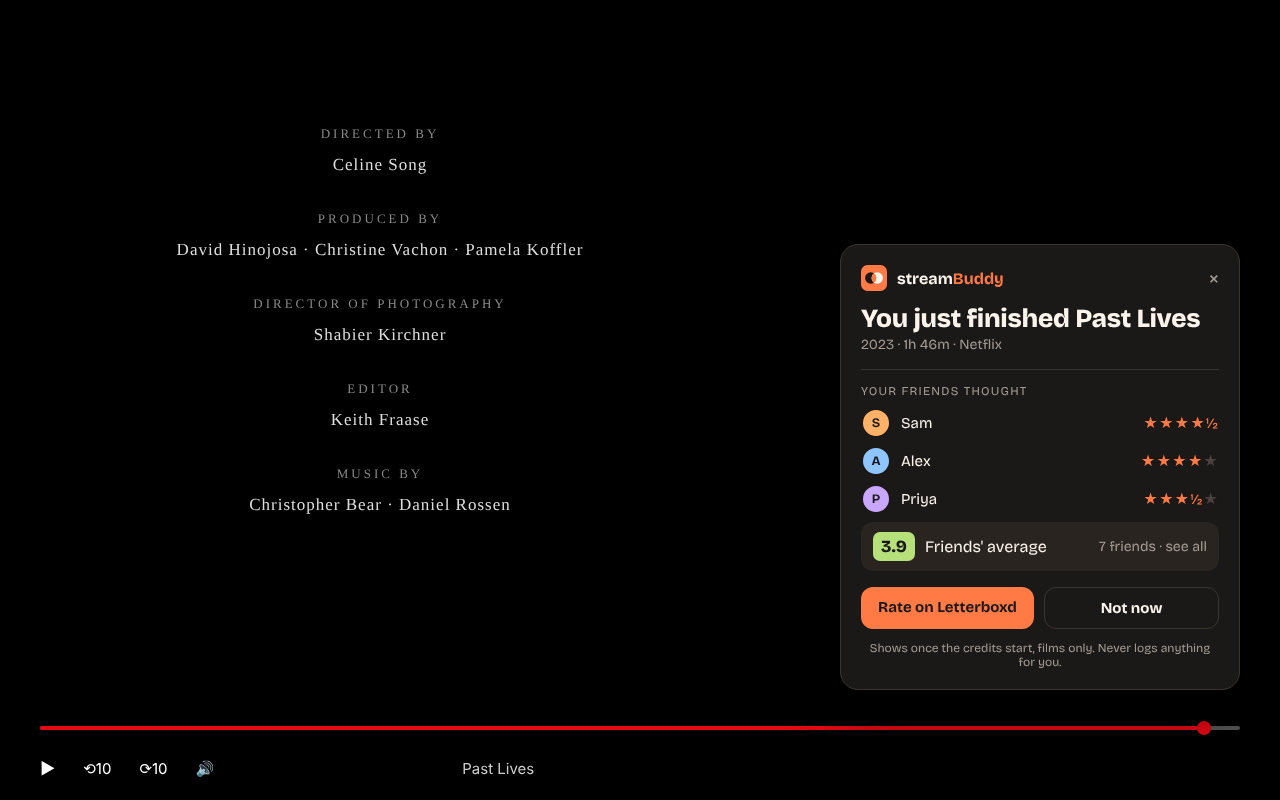
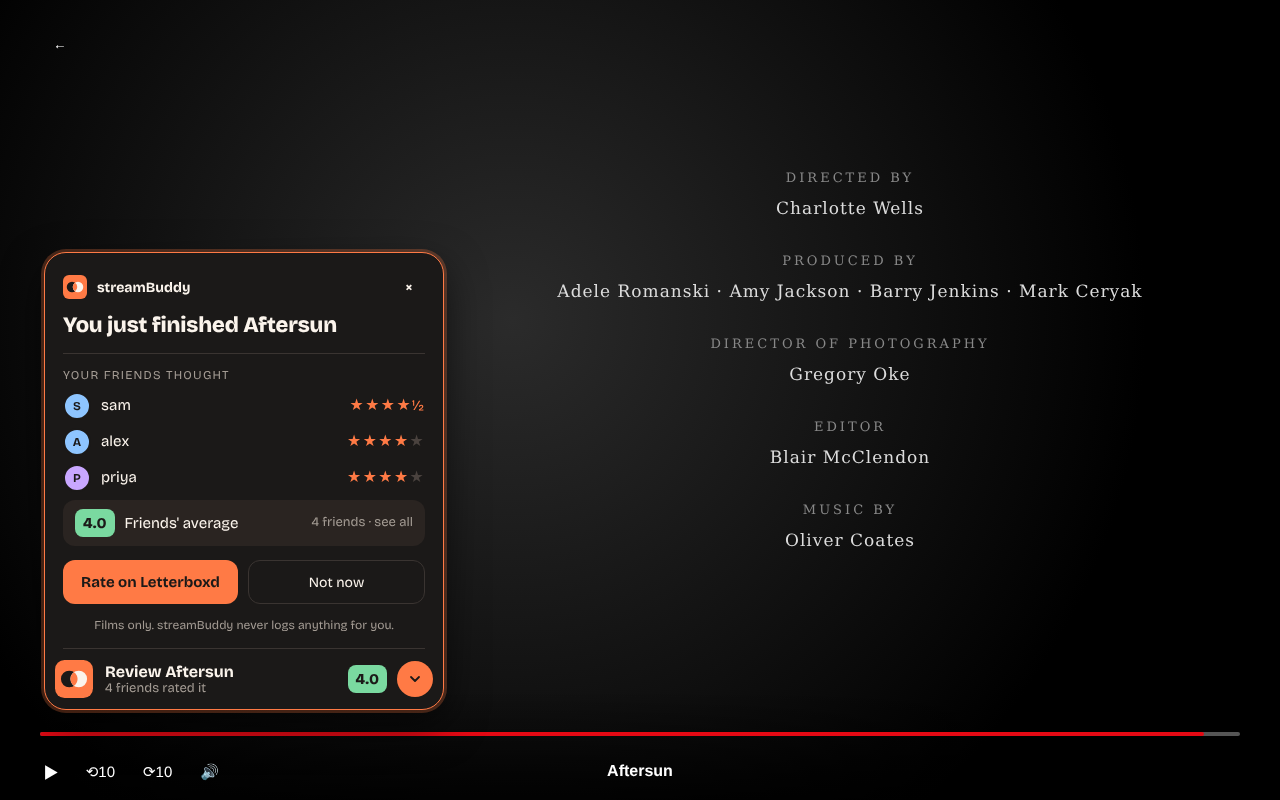
Bump to 1.0.2 and retake the review screenshot from the shipped pill
Claude-Session: https://claude.ai/code/session_01Es7cEYXK7Sj7KBMicDkbAQ

diff --git a/store/LISTING.md b/store/LISTING.md
@@ -23,7 +23,7 @@ Paste these into the Developer Dashboard. Character limits are noted where the s
 > • Friends' average rating on matched films, and who rated them
 > • Your own stars on films you've logged, with watchlisted films marked
 > • Add to your Letterboxd watchlist from a title page
-> • A review card as the credits roll, with what your friends thought and a one-click Rate on Letterboxd
+> • A review pill as the credits roll: your friends' ratings and a one-click Rate on Letterboxd
 >
 > FIND THE GOOD STUFF FASTER
 > • A rating panel on title pages, with friends' stars
@@ -64,7 +64,7 @@ Paste these into the Developer Dashboard. Character limits are noted where the s
 
 **Screenshots** (1280×800, upload in this order, replacing the 1.0.0 one):
 1. `store/screenshots/netflix-ratings.png`: live Netflix home rows with the Buddy badge
-2. `store/screenshots/review-pill.png`: the review card over Netflix's end credits (rendered from `design/bet-prototypes/after-credits.html` with the notes and the dropped watchlist row removed; only upload once the review pill has shipped)
+2. `store/screenshots/review-pill.png`: the review card over Netflix's end credits (the shipped pill, opened, rendered by the visual-check harness at 1280×800 with fuller credits and player controls drawn in)
 3. `store/screenshots/badge-looks.png`: Classic and Liquid Glass badges side by side
 4. `store/screenshots/popup-settings.png`: the toolbar popup with the main switches
 

diff --git a/store/CHROME-SUBMISSION.md b/store/CHROME-SUBMISSION.md
@@ -30,7 +30,7 @@ Firefox submission is deferred until further testing.
 
 Planned 16 October 2026. Chrome reviews every submission, listing edits included, so the 1.0.1 changes, the review pill and the new screenshots go up together once the review pill is merged.
 
-1. Bump the version (Firefox already has 1.0.1, so use 1.0.2), then `npm run build:release` for `release/chrome-1.0.2.zip`.
+1. The version is 1.0.2 (Firefox already has 1.0.1). Run `npm run build:release` for `release/chrome-1.0.2.zip`.
 2. Package tab: upload the zip.
 3. Store listing tab: paste the description from `LISTING.md`, replace the screenshot with the four in `store/screenshots/` in the order listed there, and re-upload the icon and both promo tiles, which still show the pre-Buddy look.
 4. Privacy tab: no permission changes since 1.0.0, so nothing to edit.

diff --git a/CHANGELOG.md b/CHANGELOG.md
@@ -1,5 +1,11 @@
 # Changelog
 
+# streamBuddy 1.0.2
+
+- When a film's credits start, a small "Review" pill appears beside the player with your friends' average. Open it to see who rated the film, then rate it on Letterboxd in one click. On Netflix it sits bottom left, clear of the next-title preview.
+- Netflix episode cards (such as pilot rows) now show their series' rating.
+- Prime Video: large-card badges stay put after a hover, and unrated cards are no longer rechecked every second.
+
 # streamBuddy 1.0.1
 
 - A new look: a new logo (two friends on the couch), a warm dark palette with tangerine highlights and the Bricolage Grotesque typeface in the popup and settings.
